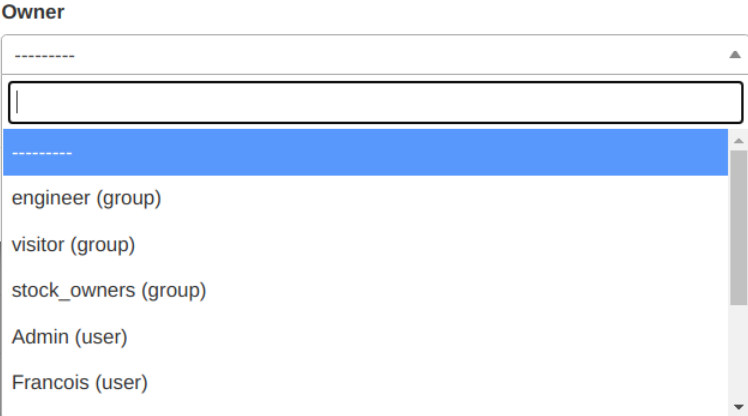
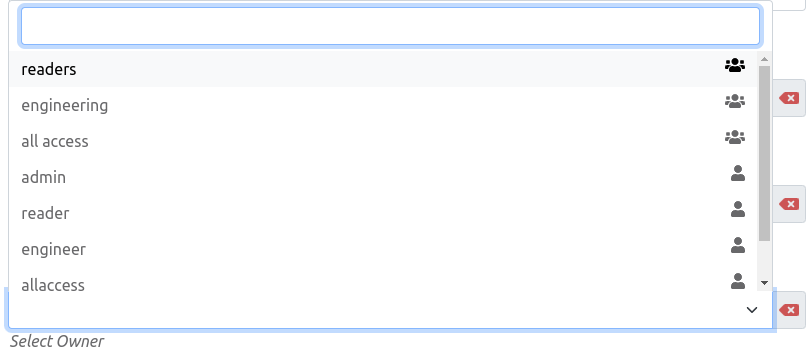
Updated stock ownership doc

diff --git a/docs/stock/owner.md b/docs/stock/owner.md
@@ -22,7 +22,7 @@ There are two types of owners in InvenTree: [groups](../settings/permissions.md#
 * If a group is selected as owner, **all** users linked to the specified group will be able to edit the stock location or item.
 * If a user is selected as owner, only the specified user will be able to edit the stock location or item.
 
-When selecting an owner, in the drop-down list, groups are annotated with the `(group)` tag and users are annotated with the `(user)` tag:
+When selecting an owner, in the drop-down list, groups are annotated with the <span class='fas fa-users'></span> icon and users are annotated with the <span class='fas fa-user'></span> icon:
 
 {% with id="stock_owner_type", url="stock/stock_owner_type.png", description="Display stock owner type" %}
 {% include 'img.html' %}
@@ -33,7 +33,7 @@ When selecting an owner, in the drop-down list, groups are annotated with the `(
 To specify the owner of a stock location, navigate to the stock location detail page. Click on the <span class='fas fa-sitemap'></span> icon under the location's name then click on "Edit Location".
 
 !!! warning
-	If you cannot see the <span class='fas fa-sitemap'></span> icon, it means that you do **not** have permissions to edit stock locations. Refer to [the permissions documentation/../settings/permissions.md#roles) and/or contact your InvenTree administrator.
+	If you cannot see the <span class='fas fa-sitemap'></span> icon, it means that you do **not** have permissions to edit stock locations. Refer to [the permissions documentation](../../settings/permissions/#roles) and/or contact your InvenTree administrator.
 
 In the "Edit Stock Location" form, select the owner and click the "Submit" button:
 
